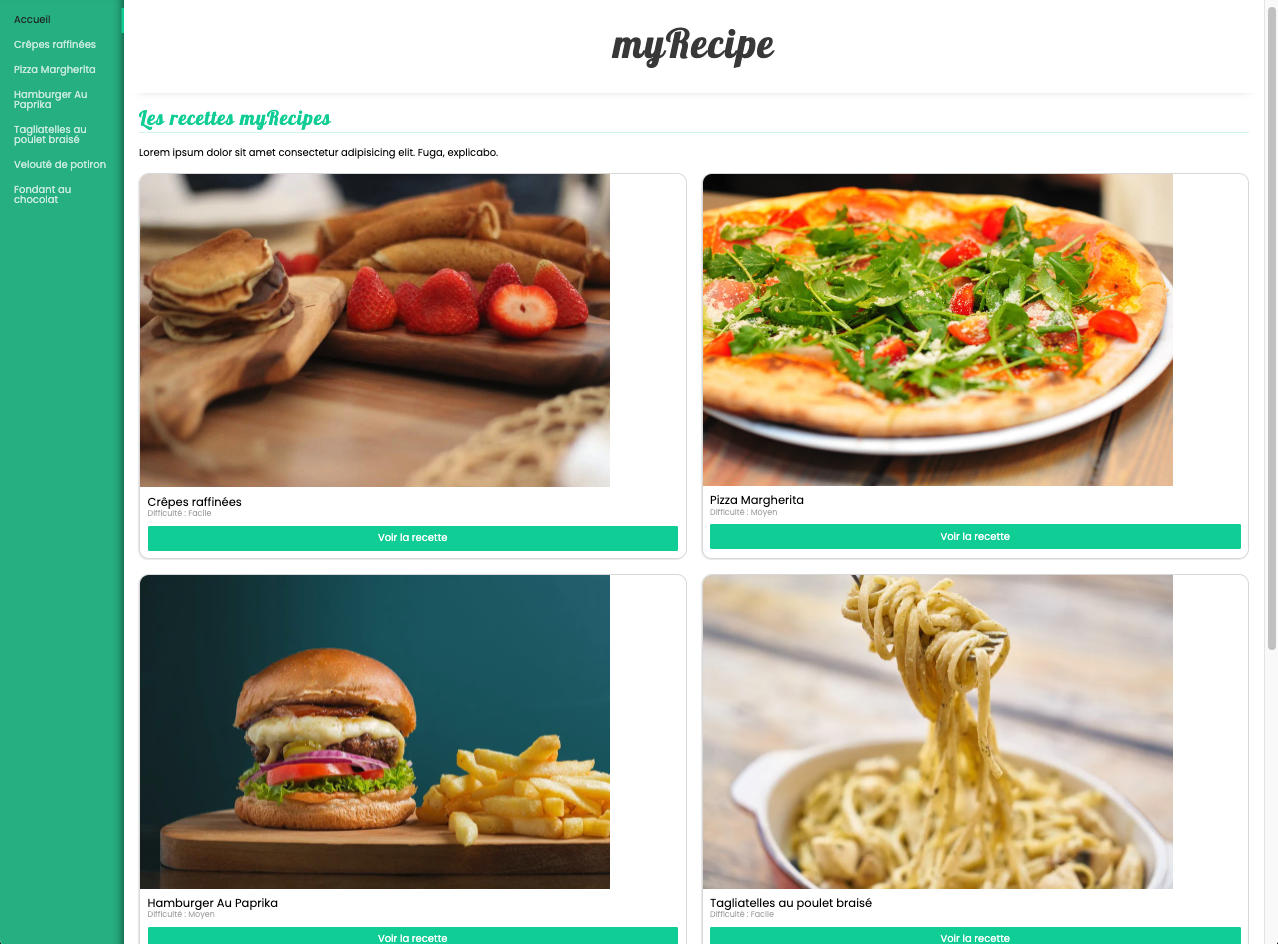
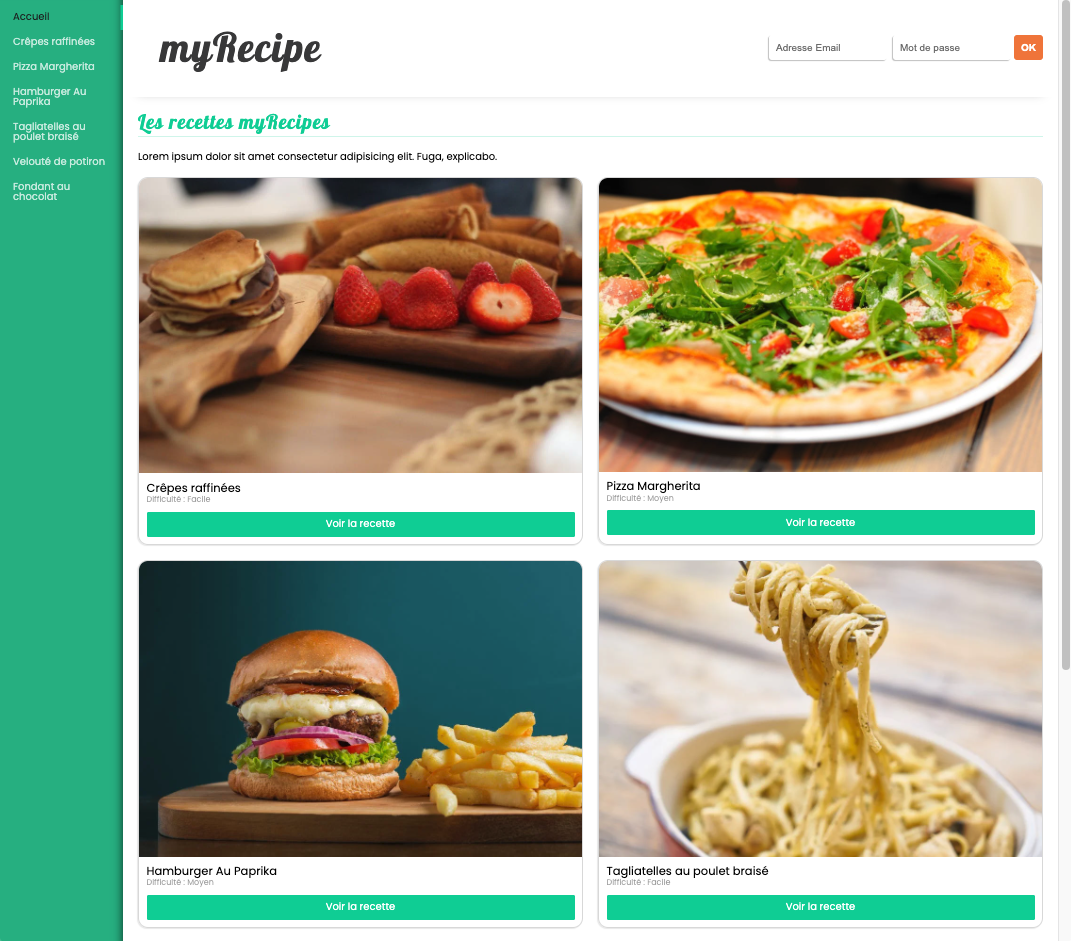
last changes on readme

diff --git a/src/reducers/user.js b/src/reducers/user.js
@@ -1,4 +1,9 @@
-import { CHANGE_VALUE, SAVE_USER, LOGOUT } from 'src/actions/user';
+import {
+  CHANGE_VALUE,
+  SAVE_USER,
+  LOGOUT,
+  SAVE_FAV,
+} from 'src/actions/user';
 
 const initialState = {
   email: '',
@@ -33,6 +38,15 @@ const user = (state = initialState, action = {}) => {
     case LOGOUT: {
       return {
         ...initialState,
+      };
+    }
+    case SAVE_FAV: {
+      return {
+        ...state,
+        infos: {
+          ...state.infos,
+          favorites: action.favorites,
+        },
       };
     }
     default:

diff --git a/src/middlewares/user.js b/src/middlewares/user.js
@@ -4,6 +4,7 @@ import {
   saveUser,
   fetchFav,
   FETCH_FAV,
+  saveFav,
 } from 'src/actions/user';
 
 const user = (store) => (next) => (action) => {
@@ -29,7 +30,7 @@ const user = (store) => (next) => (action) => {
               Authorization: `bearer ${state.user.infos.token}`,
             },
           });
-          console.log('response', response);
+          store.dispatch(saveFav(response.data));
         }
         catch (error) {
           console.log(error);

diff --git a/src/actions/user.js b/src/actions/user.js
@@ -4,6 +4,7 @@ export const LOGIN = 'LOGIN';
 export const SAVE_USER = 'SAVE_USER';
 export const LOGOUT = 'LOGOUT';
 export const FETCH_FAV = 'FETCH_FAV';
+export const SAVE_FAV = 'SAVE_FAV';
 
 // action creator
 export const changeValue = (value, name) => ({
@@ -27,4 +28,9 @@ export const logout = () => ({
 
 export const fetchFav = () => ({
   type: FETCH_FAV,
+});
+
+export const saveFav = ({ favorites }) => ({
+  type: SAVE_FAV,
+  favorites,
 });

diff --git a/src/components/LoginForm/Field/style.scss b/src/components/LoginForm/Field/style.scss
@@ -7,6 +7,7 @@
   padding: .7em;
   font-size: 1em;
   border: none;
+  box-shadow: -2px 2px 2px rgb(199, 199, 199);
   border-radius: .3em;
   height: 2.5em;
 }

diff --git a/src/components/LoginForm/style.scss b/src/components/LoginForm/style.scss
@@ -4,6 +4,7 @@
 .login-form-element {
   display: flex;
   align-items: center;
+  justify-content: flex-end;
 }
 .login-form-message {
   text-align: right;

diff --git a/README.md b/README.md
@@ -18,11 +18,12 @@
 - Components architecture for scalable application
 - Route management with react-router-dom
 - Fetch data from an API
+- Use of token
 - Implementation of unit tests
 - UX / UI
 
 ## Status
-Project not completed
+Project completed
 
 ## Context
 Project carried out during my training as a web developer
